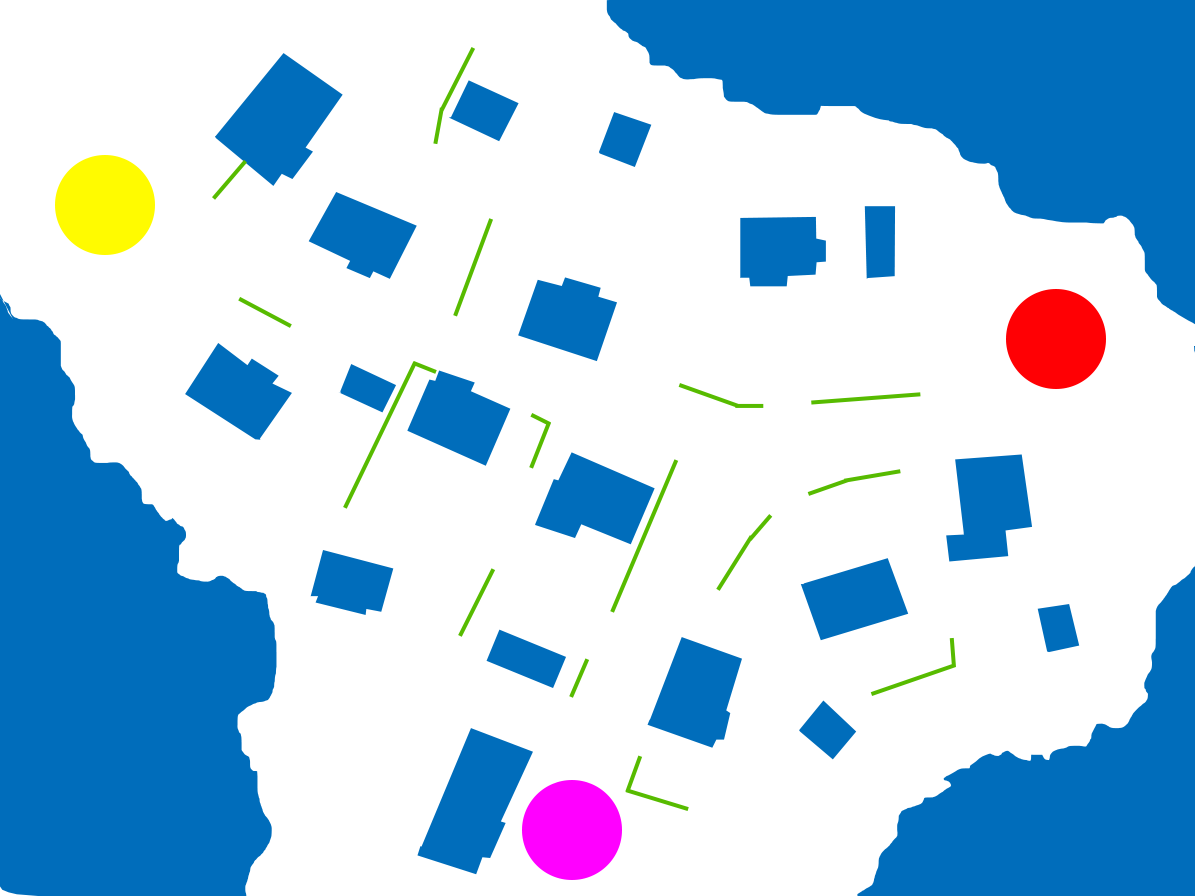
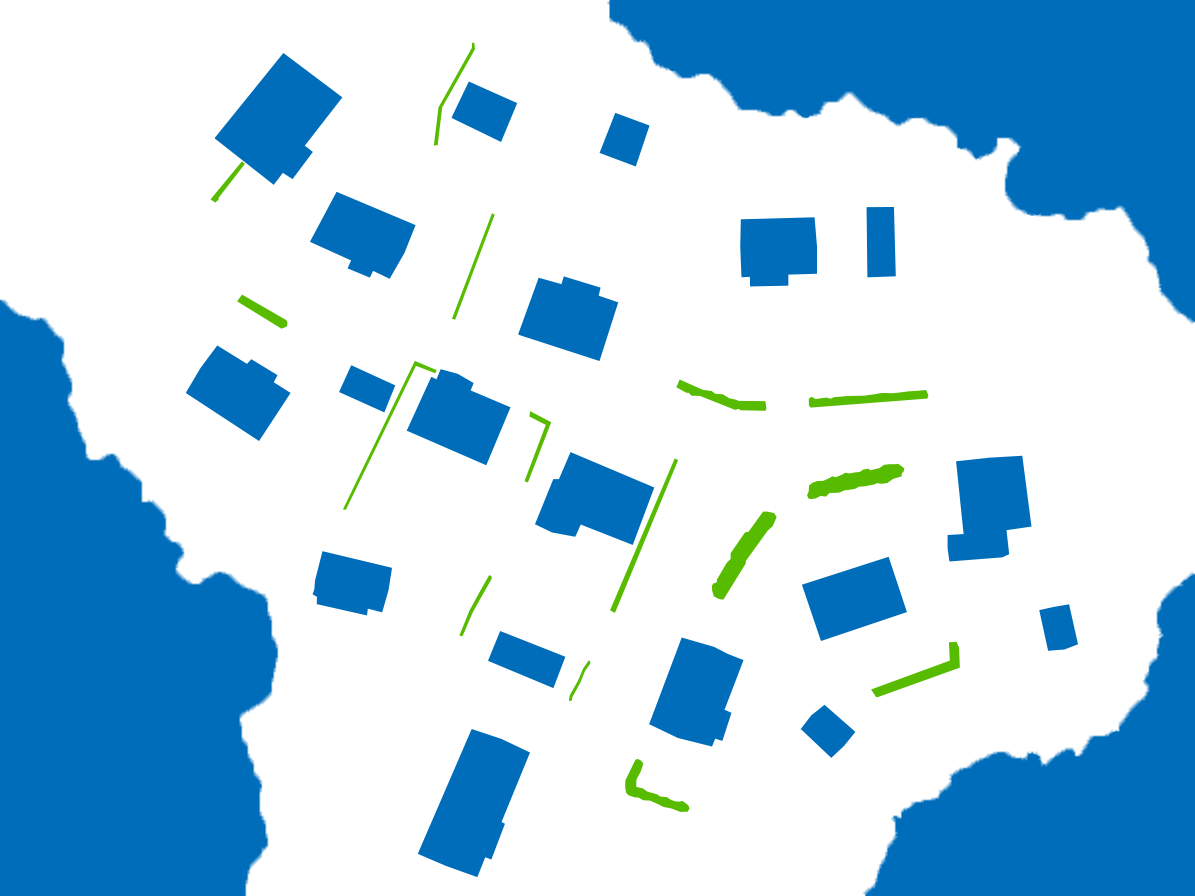
.

diff --git a/script.js b/script.js
@@ -1320,11 +1320,9 @@ class Tank {
                 if (!this._overlapsAt(newX, oldY)) {
                     this.x = newX;
                     this.y = oldY;
-                    this.speed *= 0.4;
                 } else if (!this._overlapsAt(oldX, newY)) {
                     this.x = oldX;
                     this.y = newY;
-                    this.speed *= 0.4;
                 } else {
                     this.x = oldX;
                     this.y = oldY;
